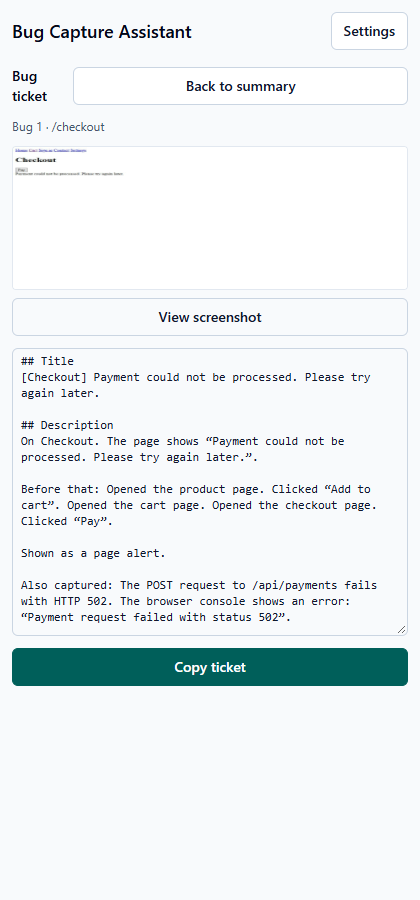
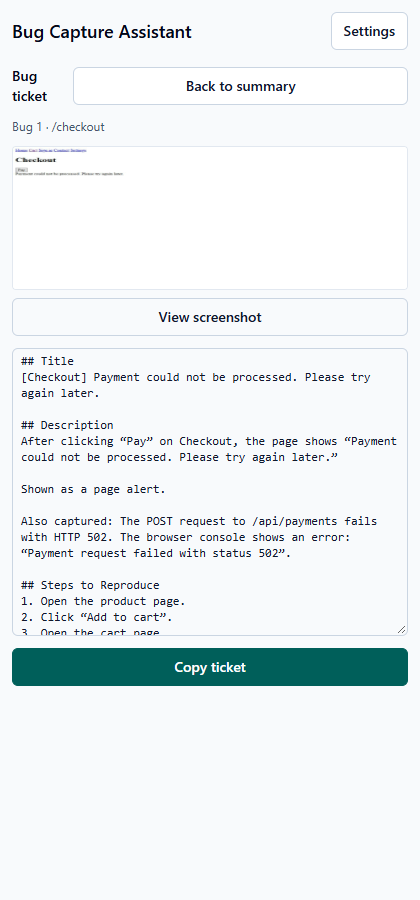
Use imperative reproduction steps in examples and demo zip.

Changed region(s): [[0.031, 0.4667, 0.9286, 0.7156], [0.8357, 0.6222, 0.8976, 0.6533]]

diff --git a/examples/checkout-payment.md b/examples/checkout-payment.md
@@ -7,23 +7,21 @@ Pay sends `POST /api/payments`, the server answers 502, the page logs `console.e
 [Checkout] Payment could not be processed. Please try again later.
 
 ## Description
-On Checkout. The page shows “Payment could not be processed. Please try again later.”.
-
-Before that: Opened the product page. Clicked “Add to cart”. Opened the cart page. Opened the checkout page. Clicked “Pay”.
+After clicking “Pay” on Checkout, the page shows “Payment could not be processed. Please try again later.”
 
 Shown as a page alert.
 
 Also captured: The POST request to /api/payments fails with HTTP 502. The browser console shows an error: “Payment request failed with status 502”.
 
 ## Steps to Reproduce
-1. Opened the product page.
-2. Clicked “Add to cart”.
-3. Opened the cart page.
-4. Opened the checkout page.
-5. Clicked “Pay”.
+1. Open the product page.
+2. Click “Add to cart”.
+3. Open the cart page.
+4. Open the checkout page.
+5. Click “Pay”.
 
 ## Actual Result
-The page shows “Payment could not be processed. Please try again later.”.
+The page shows “Payment could not be processed. Please try again later.”
 
 ## Expected Result
 This message should not appear.

diff --git a/examples/settings-rejection.md b/examples/settings-rejection.md
@@ -7,17 +7,15 @@ Save preferences throws inside an async handler. Nothing visible on the page, on
 [Account] Cannot read properties of undefined (reading 'theme')
 
 ## Description
-On Account settings. The browser console shows an error: “Cannot read properties of undefined (reading 'theme')”.
-
-Before that: Opened the home page. Opened the settings page. Selected the checkbox “Email me about new tools”. Clicked “Save preferences”.
+After clicking “Save preferences” on Account settings, the browser console shows an error: “Cannot read properties of undefined (reading 'theme')”.
 
 Recorded from the DevTools Console. It is an unhandled promise rejection.
 
 ## Steps to Reproduce
-1. Opened the home page.
-2. Opened the settings page.
-3. Selected the checkbox “Email me about new tools”.
-4. Clicked “Save preferences”.
+1. Open the home page.
+2. Open the settings page.
+3. Select the checkbox “Email me about new tools”.
+4. Click “Save preferences”.
 
 ## Actual Result
 The browser console shows an error: “Cannot read properties of undefined (reading 'theme')”.

diff --git a/examples/contact-validation.md b/examples/contact-validation.md
@@ -7,17 +7,15 @@ Invalid email, Send message. The form shows an inline `role="alert"` hint. Typed
 [Contact] Enter a valid email address, e.g. name@example.com
 
 ## Description
-On Contact us. The page shows “Enter a valid email address, e.g. name@example.com”.
-
-Before that: Opened the home page. Opened the contact page. Entered a value in the Your email field. Clicked “Send message”.
+After clicking “Send message” on Contact us, the page shows “Enter a valid email address, e.g. name@example.com”.
 
 Shown as a page alert.
 
 ## Steps to Reproduce
-1. Opened the home page.
-2. Opened the contact page.
-3. Entered a value in the Your email field.
-4. Clicked “Send message”.
+1. Open the home page.
+2. Open the contact page.
+3. Enter a value in the Your email field.
+4. Click “Send message”.
 
 ## Actual Result
 The page shows “Enter a valid email address, e.g. name@example.com”.

diff --git a/examples/product-stock.md b/examples/product-stock.md
@@ -7,18 +7,16 @@ Home → Hand tools → product, quantity 10, Add to cart. The page renders a `r
 [Product] Only 3 items left in stock
 
 ## Description
-On Combination Pliers. The page shows “Only 3 items left in stock”.
-
-Before that: Opened the home page. Opened the hand tools page. Clicked “Combination Pliers”. Opened the product page. Clicked “Add to cart”.
+After clicking “Add to cart” on Combination Pliers, the page shows “Only 3 items left in stock”.
 
 Shown as a page alert.
 
 ## Steps to Reproduce
-1. Opened the home page.
-2. Opened the hand tools page.
-3. Clicked “Combination Pliers”.
-4. Opened the product page.
-5. Clicked “Add to cart”.
+1. Open the home page.
+2. Open the hand tools page.
+3. Click “Combination Pliers”.
+4. Open the product page.
+5. Click “Add to cart”.
 
 ## Actual Result
 The page shows “Only 3 items left in stock”.

diff --git a/examples/login-api.md b/examples/login-api.md
@@ -7,16 +7,14 @@ Sign in calls `POST /api/auth/session`, gets 500, and the page shows nothing. Th
 [Auth] /api/auth/session fails with HTTP 500
 
 ## Description
-On Sign in. The POST request to /api/auth/session fails with HTTP 500.
-
-Before that: Opened the home page. Clicked “Sign in”. Opened the login page. Entered a value in the Email field. Clicked “Sign in”.
+After clicking “Sign in”, the POST request to /api/auth/session fails with HTTP 500.
 
 ## Steps to Reproduce
-1. Opened the home page.
-2. Clicked “Sign in”.
-3. Opened the login page.
-4. Entered a value in the Email field.
-5. Clicked “Sign in”.
+1. Open the home page.
+2. Click “Sign in”.
+3. Open the login page.
+4. Enter a value in the Email field.
+5. Click “Sign in”.
 
 ## Actual Result
 The POST request to /api/auth/session fails with HTTP 500.
